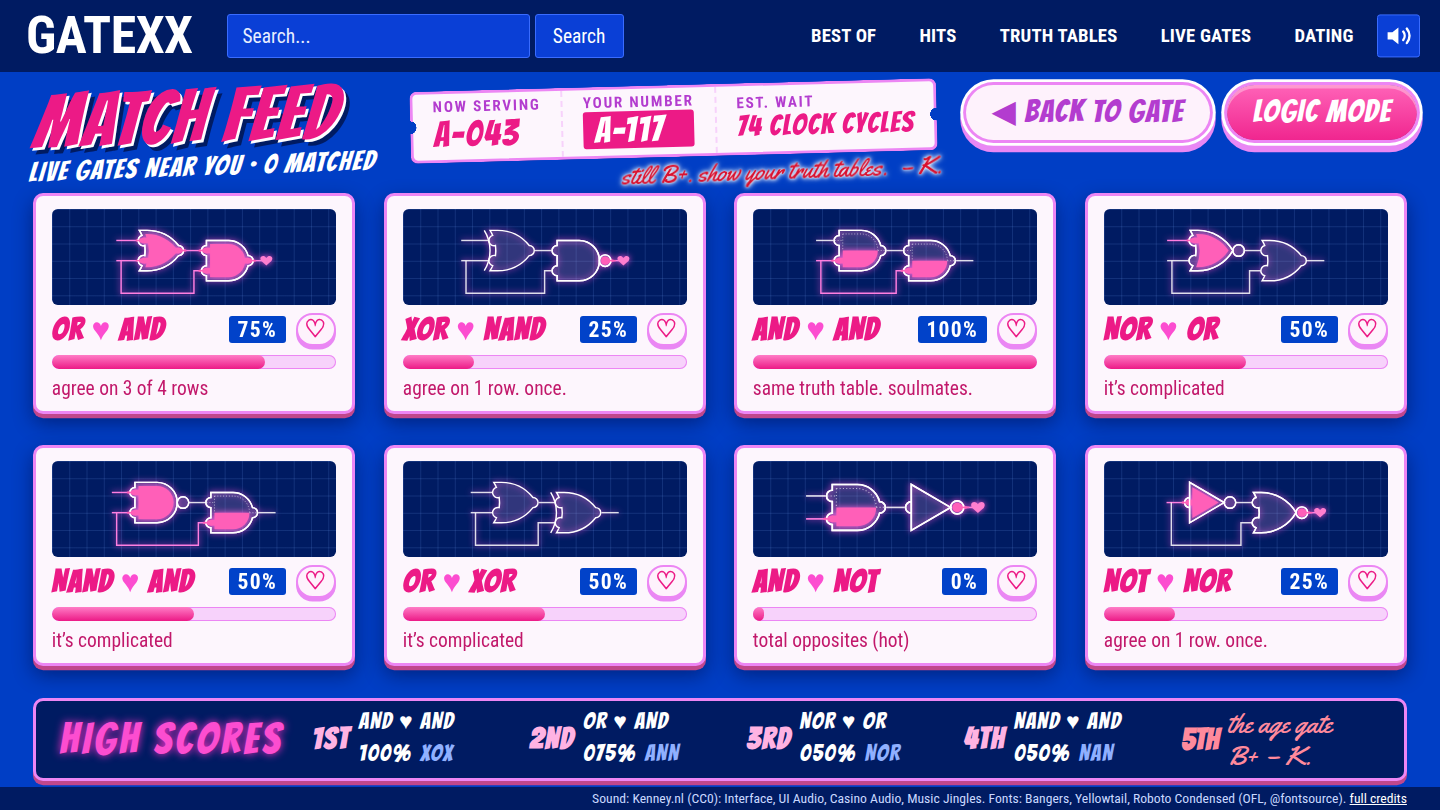
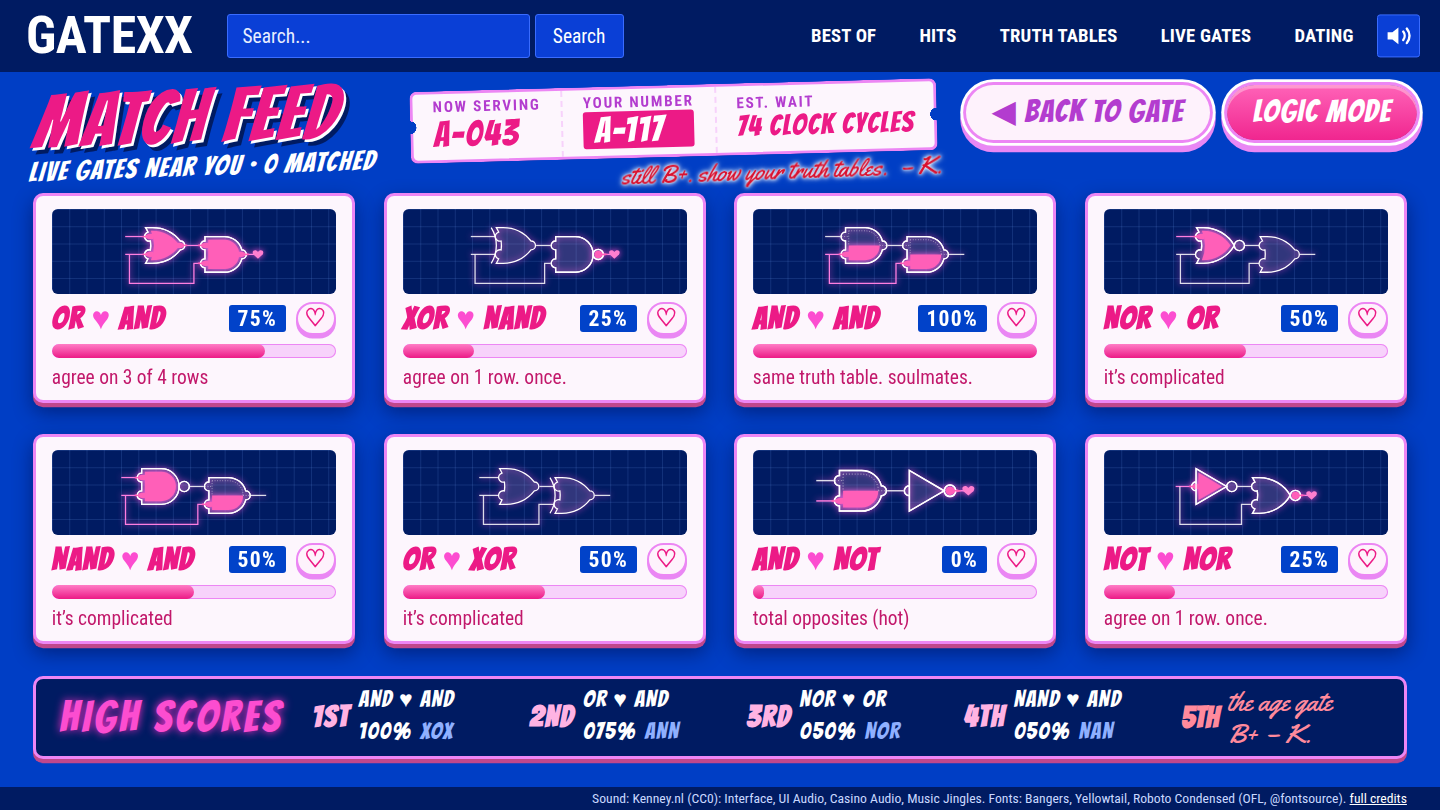
pit4/r3-1 h1: continue fixes 3-6 (docked match window, HIGH SCORES, credits, no yellow digits), shots, REPORT
Claude-Session: https://claude.ai/code/session_01MbPdze8rChHd7yWMKqzLQw

diff --git a/src/date/h1.css b/src/date/h1.css
@@ -61,3 +61,13 @@
 .v-h1 .credits a { color: #fff; }
 /* K7: "fine." keeps NO THANKS's exact box height, so the modal never reflows */
 .v-h1 .btn.flee { height: calc(var(--u) * 2.95); display: grid; place-items: center; padding: 0; margin-top: calc(var(--u) * .25); }
+/* room for the credits line; the match window docks over the HIGH SCORES band, above the credits */
+.v-h1 .feed { padding-bottom: calc(var(--u) * .8 + 22px); }
+.v-h1 .learned { bottom: 24px; padding: 0; }
+.v-h1 .learned .lw { max-height: 12.5vh; padding-top: calc(var(--u) * .5); padding-bottom: calc(var(--u) * .5); }
+/* the ♥ truth table fits the tube row at 16:9 (it spilled over the label at 1440) */
+.v-h1 .card > .tt { min-height: 0; font-size: max(12px, calc(var(--u) * 1.05)); line-height: 1.05; }
+.v-h1 .card { grid-template-rows: minmax(0, 1fr) auto auto auto; }
+.v-h1 .learned { bottom: 26px; }
+.v-h1 .learned .lw .big { font-size: calc(var(--u) * 3.6); }
+.v-h1 .learned .lw p { font-size: max(14px, calc(var(--u) * 1.4)); }

diff --git a/research/pit4/pit4-r3-1/REPORT.md b/research/pit4/pit4-r3-1/REPORT.md
@@ -1,0 +1,39 @@
+# pit4/r3-1: h1 (`date.html?v=h1`, `&next=1`)
+Base g2 (r2-2, 73). h1 reuses g2's code paths with `.v-h1` overrides in `src/date/h1.css`; f1 and g2 are unchanged.
+
+## Surprise
+The ONE surprise is still Prof. Kerney's red pen ("B+ bold choice. see me after class. – K."), which is fully landed in
+the reduced-motion still. K7 is its punchline, and it fires only on interaction. With motion on, NO THANKS hops away
+from the cursor 3 times (it stays inside the copy column). On the 4th approach it gives up, parks at the right, tips
+over and squashes ("lies down"), and its label becomes "fine." in the pen's script. Under reduced motion it teleports
+instantly (no transition) and then says "fine." It keeps the same box height, so nothing reflows. Keyboard focus never
+flees.
+
+## Continue screen
+The MATCH FEED (4×2, real Shape and sim) with g3's HIGH SCORES strip below it, including the "5TH the age gate B+ – K."
+row. A ≥75% ♡ opens the JRPG "Tony learned AND!" window. It is docked over the scores band (≤ .125 H), never open on
+load, and doesn't dim the feed. An on-page credits line (Kenney CC0 and fonts) links to `sfx/CREDITS.md`.
+
+## Fix list (VERDICT-r2, g2)
+| # | fix | result |
+|---|---|---|
+| 1 | WARNING cap ≥ .115 | .128 H @1440, .124 H @1024 (pink rows; `measure.py`) |
+| 2 | modal + sign ≤ .70 | .689 H @1440, .620 H @1024 |
+| 3 | MATCH window | docked to the bottom band, ≤ .125 H, opens only on a ≥75% ♡ |
+| 4 | yellow digits | agreeing rows are pink, digits white; the 18+ is the only yellow |
+| 5 | credits | visible line, 12 px floor, link to `sfx/CREDITS.md` |
+| 6 | HIGH SCORES | ported from g3, with Kerney's 5th row |
+| 7 | compat pill | 13 px floor |
+
+Modal width is now .575 W (it was .544), so the bigger WARNING fits at 4:3. That is still inside .52–.58.
+
+## Checks
+- `npm test` 131/131, `npm run build`, `npm run e2e` all pass.
+- 0 page errors, no horizontal scroll, 0 running animations in every reduced-motion still.
+- Shots in `shots/`, reduced motion first (`*-still.png`): gate, K7, next, next-match, clean at 1440 and 1024, then
+  the same with motion on.
+
+## Remaining deltas
+- The WARNING cap is at the top of its band (.128 at 1440).
+- K7 needs a hover, so the still shows only the pen (by design).
+- The docked match window covers the HIGH SCORES strip while it is open.

diff --git a/research/pit4/pit4-r3-1/LOG.md b/research/pit4/pit4-r3-1/LOG.md
@@ -5,3 +5,4 @@ Base origin/pit4/r2-2 (g2, 73). h1 = g2 code paths + `.v-h1` overrides (src/date
   stays in the copy column), 4th approach = gives up, parks right, lies down (tilt+squash), label "fine." in the pen's
   Yellowtail. Reduced motion: instant teleport to the far right + "fine." (no transition). Same box height = no reflow.
   Keyboard focus never flees.
+- step 2 (next): fixes 3-6 (docked match window, pink agree rows, credits line, HIGH SCORES), TT fits at 16:9. Tests/build/e2e pass; REPORT.
